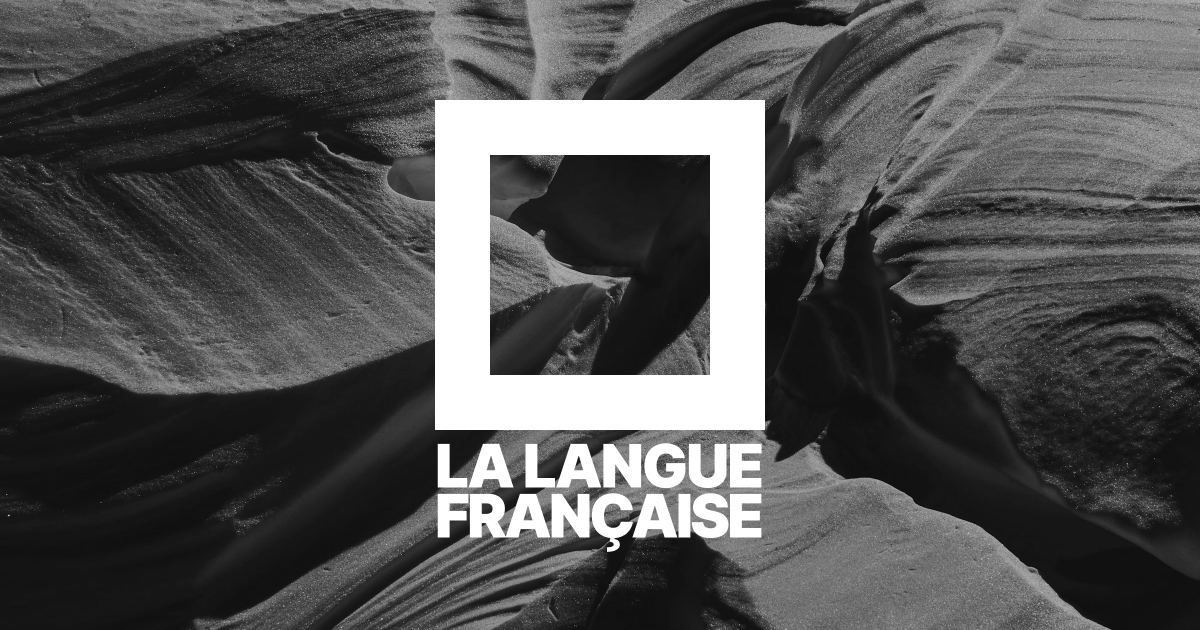
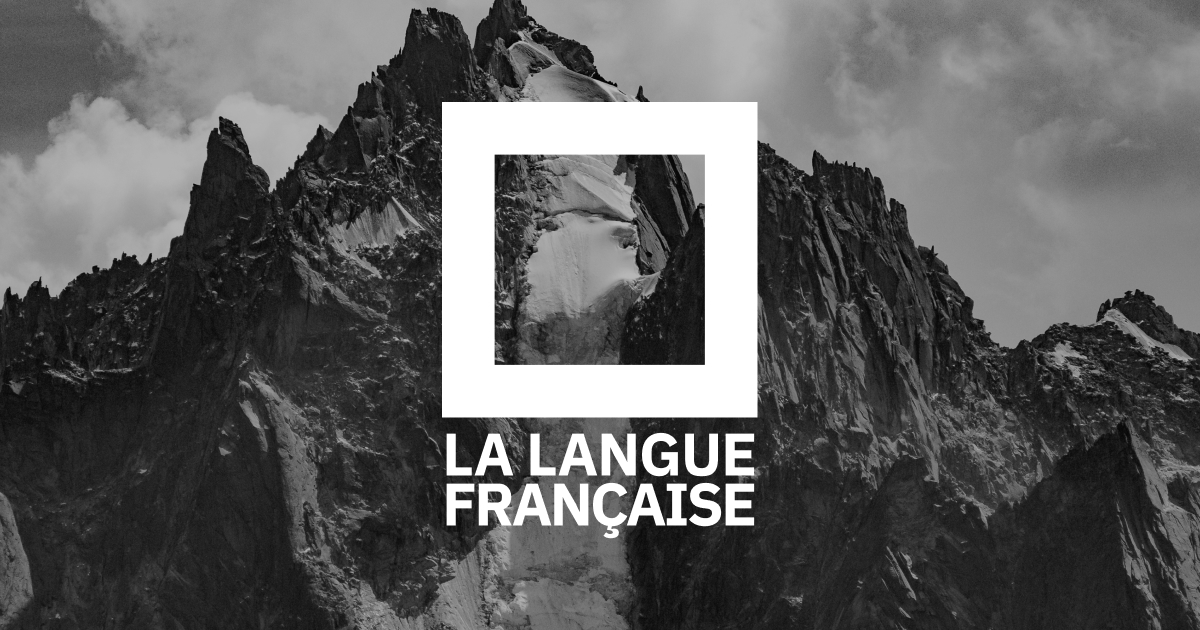
Refine typography and branding
Switch the site to IBM Plex Sans, update the logo artwork and Open Graph image, and adjust heading weights for a lighter visual hierarchy.

diff --git a/src/components/Logo.tsx b/src/components/Logo.tsx
@@ -10,10 +10,9 @@ export default function Logo({
 }) {
   return (
     <svg
-      xmlns="http://www.w3.org/2000/svg"
-      // Cropped to the square mark so the cedilla hangs below like a descender
-      // instead of pushing the logo up when centred.
       viewBox={showLogoOnly ? "0 0 200 200" : "0 0 882 200"}
+
+      xmlns="http://www.w3.org/2000/svg"
       fill="currentColor"
       role="img"
       aria-label="La langue française"
@@ -21,7 +20,7 @@ export default function Logo({
     >
       <path d="M200 200H0V0H200V200ZM33.333 33.333V166.667H166.667V33.333H33.333Z" />
       {showLogoOnly ? null : (
-        <path d="M234.625 94V6.72727H258.318V74.9091H293.602V94H234.625ZM321.65 94H296.082L324.889 6.72727H357.275L386.082 94H360.514L341.423 30.7614H340.741L321.65 94ZM316.877 59.5682H364.946V77.2955H316.877V59.5682ZM409.994 94V6.72727H433.687V74.9091H468.971V94H409.994ZM497.019 94H471.451L500.258 6.72727H532.644L561.451 94H535.883L516.792 30.7614H516.11L497.019 94ZM492.246 59.5682H540.314V77.2955H492.246V59.5682ZM641.168 6.72727V94H621.395L589.861 48.1477H589.349V94H565.656V6.72727H585.77L616.793 52.4091H617.474V6.72727H641.168ZM704.851 35.5341C704.482 34.0284 703.899 32.7074 703.104 31.571C702.309 30.4063 701.314 29.4261 700.121 28.6307C698.956 27.8068 697.593 27.196 696.03 26.7983C694.496 26.3722 692.806 26.1591 690.959 26.1591C686.982 26.1591 683.587 27.1108 680.774 29.0142C677.99 30.9176 675.86 33.6591 674.382 37.2386C672.934 40.8182 672.209 45.1364 672.209 50.1932C672.209 55.3068 672.905 59.6818 674.297 63.3182C675.689 66.9545 677.763 69.7386 680.519 71.6705C683.274 73.6023 686.698 74.5682 690.789 74.5682C694.397 74.5682 697.394 74.0426 699.78 72.9915C702.195 71.9403 703.999 70.4489 705.192 68.517C706.385 66.5852 706.982 64.3125 706.982 61.6989L711.073 62.125H691.13V45.25H729.823V57.3523C729.823 65.3068 728.132 72.1108 724.752 77.7642C721.399 83.3892 716.769 87.7074 710.86 90.7188C704.979 93.7017 698.232 95.1932 690.618 95.1932C682.124 95.1932 674.666 93.3892 668.246 89.7812C661.826 86.1733 656.811 81.0312 653.203 74.3551C649.624 67.679 647.834 59.7386 647.834 50.5341C647.834 43.3182 648.928 36.9261 651.115 31.358C653.331 25.7898 656.399 21.0881 660.32 17.2528C664.24 13.3892 668.772 10.4773 673.914 8.51704C679.056 6.52841 684.567 5.53409 690.448 5.53409C695.618 5.53409 700.419 6.27273 704.851 7.75C709.311 9.19886 713.246 11.2727 716.655 13.9716C720.093 16.642 722.862 19.8097 724.965 23.4744C727.067 27.1392 728.345 31.1591 728.8 35.5341H704.851ZM788.318 6.72727H812.011V62.6364C812.011 69.2841 810.42 75.0369 807.239 79.8949C804.085 84.7244 799.682 88.4602 794.028 91.1023C788.375 93.7159 781.812 95.0227 774.341 95.0227C766.812 95.0227 760.221 93.7159 754.568 91.1023C748.915 88.4602 744.511 84.7244 741.358 79.8949C738.233 75.0369 736.67 69.2841 736.67 62.6364V6.72727H760.364V60.5909C760.364 63.2898 760.96 65.7045 762.153 67.8352C763.346 69.9375 764.994 71.5852 767.096 72.7784C769.227 73.9716 771.642 74.5682 774.341 74.5682C777.068 74.5682 779.483 73.9716 781.585 72.7784C783.687 71.5852 785.335 69.9375 786.528 67.8352C787.721 65.7045 788.318 63.2898 788.318 60.5909V6.72727ZM819.072 94V6.72727H881.97V25.8182H842.765V40.8182H878.731V59.9091H842.765V74.9091H881.799V94H819.072ZM234.625 194V106.727H295.989V125.818H258.318V140.818H292.239V159.909H258.318V194H234.625ZM298.703 194V106.727H336.374C342.851 106.727 348.518 107.906 353.376 110.264C358.234 112.622 362.013 116.017 364.712 120.449C367.411 124.881 368.76 130.193 368.76 136.386C368.76 142.636 367.368 147.906 364.584 152.196C361.828 156.486 357.95 159.724 352.95 161.912C347.979 164.099 342.169 165.193 335.521 165.193H313.021V146.784H330.749C333.533 146.784 335.905 146.443 337.865 145.761C339.854 145.051 341.374 143.929 342.425 142.395C343.504 140.861 344.044 138.858 344.044 136.386C344.044 133.886 343.504 131.855 342.425 130.293C341.374 128.702 339.854 127.537 337.865 126.798C335.905 126.031 333.533 125.648 330.749 125.648H322.396V194H298.703ZM349.839 153.943L371.658 194H345.919L324.612 153.943H349.839ZM395.53 194H369.962L398.768 106.727H431.155L459.962 194H434.393L415.303 130.761H414.621L395.53 194ZM390.757 159.568H438.825V177.295H390.757V159.568ZM537.879 106.727V194H518.106L486.572 148.148H486.06V194H462.367V106.727H482.481L513.504 152.409H514.185V106.727H537.879ZM624.563 139.455H600.529C600.359 137.466 599.904 135.662 599.165 134.043C598.455 132.423 597.461 131.031 596.183 129.866C594.933 128.673 593.413 127.764 591.623 127.139C589.833 126.486 587.802 126.159 585.529 126.159C581.552 126.159 578.185 127.125 575.43 129.057C572.702 130.989 570.629 133.759 569.208 137.366C567.816 140.974 567.12 145.307 567.12 150.364C567.12 155.705 567.83 160.179 569.251 163.787C570.7 167.366 572.788 170.065 575.515 171.884C578.242 173.673 581.523 174.568 585.359 174.568C587.546 174.568 589.506 174.298 591.239 173.759C592.972 173.19 594.478 172.381 595.756 171.33C597.035 170.278 598.072 169.014 598.867 167.537C599.691 166.031 600.245 164.341 600.529 162.466L624.563 162.636C624.279 166.33 623.242 170.094 621.452 173.929C619.663 177.736 617.12 181.259 613.825 184.497C610.558 187.707 606.509 190.293 601.68 192.253C596.85 194.213 591.239 195.193 584.847 195.193C576.836 195.193 569.648 193.474 563.285 190.037C556.95 186.599 551.935 181.543 548.242 174.866C544.577 168.19 542.745 160.023 542.745 150.364C542.745 140.648 544.62 132.466 548.37 125.818C552.12 119.142 557.177 114.099 563.54 110.69C569.904 107.253 577.006 105.534 584.847 105.534C590.359 105.534 595.43 106.287 600.06 107.793C604.691 109.298 608.754 111.5 612.248 114.398C615.742 117.267 618.555 120.804 620.685 125.009C622.816 129.213 624.109 134.028 624.563 139.455ZM580.245 193.318H588.597L587.915 197.239C591.296 197.75 593.924 198.943 595.799 200.818C597.674 202.693 598.626 205.023 598.654 207.807C598.711 212.409 596.452 216.031 591.879 218.673C587.333 221.315 581.069 222.636 573.086 222.636V213.602C577.29 213.602 580.501 213.148 582.717 212.239C584.933 211.358 586.097 210.051 586.211 208.318C586.325 206.727 585.7 205.406 584.336 204.355C583.001 203.332 580.955 202.608 578.2 202.182L580.245 193.318ZM649.288 194H623.719L652.526 106.727H684.913L713.719 194H688.151L669.06 130.761H668.379L649.288 194ZM644.515 159.568H692.583V177.295H644.515V159.568ZM739.818 106.727V194H716.125V106.727H739.818ZM792.092 134C791.865 131.159 790.8 128.943 788.896 127.352C787.021 125.761 784.166 124.966 780.331 124.966C777.888 124.966 775.885 125.264 774.322 125.861C772.788 126.429 771.652 127.21 770.913 128.205C770.175 129.199 769.791 130.335 769.763 131.614C769.706 132.665 769.891 133.616 770.317 134.469C770.771 135.293 771.482 136.045 772.447 136.727C773.413 137.381 774.649 137.977 776.155 138.517C777.661 139.057 779.45 139.54 781.524 139.966L788.683 141.5C793.513 142.523 797.646 143.872 801.084 145.548C804.521 147.224 807.334 149.199 809.521 151.472C811.709 153.716 813.314 156.244 814.337 159.057C815.388 161.869 815.928 164.937 815.956 168.261C815.928 174 814.493 178.858 811.652 182.835C808.811 186.812 804.749 189.838 799.464 191.912C794.209 193.986 787.888 195.023 780.501 195.023C772.916 195.023 766.297 193.901 760.643 191.656C755.018 189.412 750.643 185.96 747.518 181.301C744.422 176.614 742.859 170.619 742.831 163.318H765.331C765.473 165.989 766.141 168.233 767.334 170.051C768.527 171.869 770.203 173.247 772.362 174.185C774.55 175.122 777.149 175.591 780.161 175.591C782.689 175.591 784.805 175.278 786.51 174.653C788.214 174.028 789.507 173.162 790.388 172.054C791.268 170.946 791.723 169.682 791.751 168.261C791.723 166.926 791.283 165.761 790.43 164.767C789.607 163.744 788.243 162.835 786.339 162.04C784.436 161.216 781.865 160.449 778.626 159.739L769.933 157.864C762.206 156.187 756.112 153.389 751.652 149.469C747.22 145.52 745.018 140.136 745.047 133.318C745.018 127.778 746.496 122.935 749.479 118.787C752.49 114.611 756.652 111.358 761.964 109.028C767.305 106.699 773.428 105.534 780.331 105.534C787.376 105.534 793.47 106.713 798.612 109.071C803.754 111.429 807.717 114.753 810.501 119.043C813.314 123.304 814.734 128.29 814.763 134H792.092ZM818.969 194V106.727H881.866V125.818H842.662V140.818H878.628V159.909H842.662V174.909H881.696V194H818.969Z" />
+        <path d="M288.4 95H238.24V11.24H256.48V78.8H288.4V95ZM371.641 95H352.681L346.681 75.08H318.721L312.721 95H294.241L321.841 11.24H344.401L371.641 95ZM342.241 59.6L337.081 42.2L332.881 27.8H332.281L328.201 42.2L323.041 59.6H342.241ZM456.181 95H406.021V11.24H424.261V78.8H456.181V95ZM539.422 95H520.462L514.462 75.08H486.502L480.502 95H462.022L489.622 11.24H512.182L539.422 95ZM510.022 59.6L504.862 42.2L500.662 27.8H500.062L495.982 42.2L490.822 59.6H510.022ZM596.706 95L573.786 55.4L565.746 38.6H565.386V56.12V95H548.226V11.24H568.146L591.066 50.84L599.106 67.64H599.466V50.12V11.24H616.626V95H596.706ZM685.438 95V81.68H684.838C684.278 85.84 682.118 89.36 678.358 92.24C674.678 95.04 669.678 96.44 663.358 96.44C656.958 96.44 651.158 94.8 645.958 91.52C640.758 88.24 636.638 83.44 633.598 77.12C630.558 70.72 629.038 62.84 629.038 53.48C629.038 44.04 630.598 36.08 633.718 29.6C636.918 23.12 641.358 18.2 647.038 14.84C652.798 11.48 659.438 9.8 666.958 9.8C674.398 9.8 680.838 11.44 686.278 14.72C691.798 18 696.118 22.84 699.238 29.24L684.358 37.76C683.078 34.48 681.078 31.72 678.358 29.48C675.638 27.16 671.838 26 666.958 26C663.198 26 659.918 26.76 657.118 28.28C654.318 29.72 652.158 31.96 650.638 35C649.118 37.96 648.358 41.76 648.358 46.4V59.84C648.358 64.48 649.118 68.32 650.638 71.36C652.158 74.32 654.318 76.56 657.118 78.08C659.918 79.52 663.198 80.24 666.958 80.24C669.998 80.24 672.758 79.76 675.238 78.8C677.718 77.84 679.678 76.44 681.118 74.6C682.638 72.76 683.398 70.48 683.398 67.76V63.56H667.798V48.32H700.798V95H685.438ZM715.264 11.24H733.024V62.6C733.024 66.52 733.504 69.8 734.464 72.44C735.504 75 737.144 76.96 739.384 78.32C741.624 79.6 744.544 80.24 748.144 80.24C751.744 80.24 754.624 79.6 756.784 78.32C759.024 76.96 760.664 75 761.704 72.44C762.744 69.8 763.264 66.52 763.264 62.6V11.24H781.024V60.68C781.024 68.92 779.944 75.68 777.784 80.96C775.624 86.24 772.144 90.16 767.344 92.72C762.544 95.2 756.144 96.44 748.144 96.44C740.144 96.44 733.744 95.2 728.944 92.72C724.144 90.16 720.664 86.24 718.504 80.96C716.344 75.68 715.264 68.92 715.264 60.68V11.24ZM853.281 95H796.281V11.24H853.281V27.44H814.521V44.6H847.761V60.68H814.521V78.8H853.281V95ZM256.48 195H238.24V111.24H293.8V127.44H256.48V144.6H288.28V160.68H256.48V195ZM320.675 164.28V195H302.435V111.24H342.155C347.355 111.24 351.835 112.36 355.595 114.6C359.355 116.84 362.275 119.96 364.355 123.96C366.435 127.96 367.475 132.64 367.475 138C367.475 143.6 366.195 148.56 363.635 152.88C361.155 157.12 357.355 160.2 352.235 162.12L368.675 195H348.395L333.755 164.28H320.675ZM320.675 148.92H339.875C341.715 148.92 343.275 148.6 344.555 147.96C345.835 147.32 346.835 146.4 347.555 145.2C348.275 143.92 348.635 142.4 348.635 140.64V135.36C348.635 133.52 348.275 132 347.555 130.8C346.835 129.6 345.835 128.68 344.555 128.04C343.275 127.4 341.715 127.08 339.875 127.08H320.675V148.92ZM447.855 195H428.895L422.895 175.08H394.935L388.935 195H370.455L398.055 111.24H420.615L447.855 195ZM418.455 159.6L413.295 142.2L409.095 127.8H408.495L404.415 142.2L399.255 159.6H418.455ZM501.923 195L479.003 155.4L470.963 138.6H470.603V156.12V195H453.443V111.24H473.363L496.283 150.84L504.323 167.64H504.683V150.12V111.24H521.843V195H501.923ZM568.119 126C562.759 126 558.439 127.76 555.159 131.28C551.959 134.72 550.359 139.76 550.359 146.4V159.84C550.359 166.4 551.959 171.44 555.159 174.96C558.439 178.48 562.759 180.24 568.119 180.24C572.599 180.24 576.159 179.04 578.799 176.64C581.519 174.16 583.519 171.2 584.799 167.76L599.679 176.4C596.559 182.72 592.439 187.64 587.319 191.16C582.279 194.68 576.079 196.44 568.719 196.44L567.639 201.6L568.119 202.08C569.079 201.84 570.039 201.64 570.999 201.48C571.959 201.32 572.919 201.24 573.879 201.24C576.279 201.24 578.319 201.88 579.999 203.16C581.759 204.44 582.639 206.56 582.639 209.52C582.639 212.24 581.879 214.4 580.359 216C578.839 217.6 576.879 218.72 574.479 219.36C572.079 220.08 569.519 220.44 566.799 220.44C562.639 220.44 559.359 219.84 556.959 218.64C554.639 217.52 552.959 216.36 551.919 215.16L557.439 208.44C558.239 209.4 559.279 210.2 560.559 210.84C561.919 211.56 563.519 211.92 565.359 211.92C566.879 211.92 568.119 211.68 569.079 211.2C570.119 210.72 570.639 209.96 570.639 208.92C570.639 208.04 570.079 207.08 568.959 206.04C567.839 205.08 565.399 204.44 561.639 204.12L559.119 203.88L560.799 195.84C554.719 194.88 549.439 192.68 544.959 189.24C540.479 185.8 537.039 181.12 534.639 175.2C532.239 169.28 531.039 162.12 531.039 153.72C531.039 144.28 532.559 136.32 535.599 129.84C538.639 123.28 542.919 118.32 548.439 114.96C554.039 111.52 560.599 109.8 568.119 109.8C575.799 109.8 582.159 111.4 587.199 114.6C592.319 117.8 596.399 122.76 599.439 129.48L583.719 137.64C582.679 134.12 580.919 131.32 578.439 129.24C576.039 127.08 572.599 126 568.119 126ZM676.066 195H657.106L651.106 175.08H623.146L617.146 195H598.666L626.266 111.24H648.826L676.066 195ZM646.666 159.6L641.506 142.2L637.306 127.8H636.706L632.626 142.2L627.466 159.6H646.666ZM718.254 195H678.414V180.48H689.214V125.76H678.414V111.24H718.254V125.76H707.454V180.48H718.254V195ZM754.571 196.44C747.291 196.44 741.051 195.16 735.851 192.6C730.731 190.04 726.371 186.8 722.771 182.88L734.771 170.76C737.571 173.96 740.731 176.36 744.251 177.96C747.851 179.56 751.691 180.36 755.771 180.36C760.251 180.36 763.571 179.44 765.731 177.6C767.891 175.76 768.971 173.32 768.971 170.28C768.971 168.76 768.691 167.4 768.131 166.2C767.651 164.92 766.691 163.88 765.251 163.08C763.891 162.2 761.891 161.6 759.251 161.28L750.971 160.2C745.131 159.4 740.291 157.96 736.451 155.88C732.691 153.72 729.891 150.92 728.051 147.48C726.211 143.96 725.291 139.88 725.291 135.24C725.291 130.2 726.531 125.8 729.011 122.04C731.571 118.2 735.171 115.2 739.811 113.04C744.531 110.88 750.171 109.8 756.731 109.8C763.051 109.8 768.611 110.84 773.411 112.92C778.211 114.92 782.331 117.8 785.771 121.56L773.651 133.8C771.651 131.48 769.211 129.6 766.331 128.16C763.531 126.64 759.971 125.88 755.651 125.88C751.571 125.88 748.531 126.6 746.531 128.04C744.531 129.48 743.531 131.48 743.531 134.04C743.531 135.96 743.851 137.52 744.491 138.72C745.211 139.92 746.291 140.84 747.731 141.48C749.251 142.12 751.171 142.64 753.491 143.04L761.771 144.36C767.531 145.24 772.291 146.72 776.051 148.8C779.811 150.88 782.611 153.6 784.451 156.96C786.291 160.32 787.211 164.4 787.211 169.2C787.211 174.56 785.931 179.28 783.371 183.36C780.891 187.44 777.211 190.64 772.331 192.96C767.451 195.28 761.531 196.44 754.571 196.44ZM853.334 195H796.334V111.24H853.334V127.44H814.574V144.6H847.814V160.68H814.574V178.8H853.334V195Z" />
       )}
     </svg>
   );

diff --git a/src/app/layout.tsx b/src/app/layout.tsx
@@ -1,12 +1,12 @@
 import type { Metadata } from "next";
-import { Inter, IBM_Plex_Mono } from "next/font/google";
+import { IBM_Plex_Mono, IBM_Plex_Sans } from "next/font/google";
 import "./globals.css";
 import Footer from "@/components/Footer";
 import Header from "@/components/Header";
 import PersonalNotes from "@/components/PersonalNotes";
 
-const inter = Inter({
-  variable: "--font-inter",
+const ibmPlexSans = IBM_Plex_Sans({
+  variable: "--font-ibm-plex-sans",
   subsets: ["latin"],
 });
 
@@ -33,7 +33,7 @@ export default function RootLayout({ children }: LayoutProps<"/">) {
   return (
     <html
       lang="fr"
-      className={`${inter.variable} ${ibmPlexMono.variable} antialiased`}
+      className={`${ibmPlexSans.variable} ${ibmPlexMono.variable} antialiased`}
       suppressHydrationWarning
     >
       <head>

diff --git a/src/app/page.tsx b/src/app/page.tsx
@@ -51,7 +51,7 @@ export default async function Home() {
         <p className="px-4 font-medium tracking-wide text-neutral-600 uppercase dark:text-neutral-400">
           Bonjour et bienvenue sur
         </p>
-        <h1 className="px-4 text-5xl leading-none font-extrabold tracking-tighter uppercase sm:text-7xl">
+        <h1 className="px-4 text-5xl leading-none font-bold tracking-tighter uppercase sm:text-7xl">
           La langue française
         </h1>
         <p className="max-w-xl px-4 text-lg text-neutral-700 dark:text-neutral-300">

diff --git a/src/components/content/TensesSlider.tsx b/src/components/content/TensesSlider.tsx
@@ -8,7 +8,7 @@ export default function TensesSlider() {
   return (
     <>
       <div className="prose-p:m-0 prose-headings:m-0 flex flex-col items-center gap-4 bg-neutral-100 p-4 dark:bg-black">
-        <p className="text-center text-xl font-black">Les Temps</p>
+        <p className="text-center text-xl font-bold">Les Temps</p>
         <div className="flex w-full flex-col gap-1">
           <p className="text-center leading-tight font-bold">
             Le moment de l&apos;événement

diff --git a/src/app/globals.css b/src/app/globals.css
@@ -3,7 +3,7 @@
 @custom-variant dark (&:where(.dark, .dark *));
 
 @theme inline {
-  --font-sans: var(--font-inter);
+  --font-sans: var(--font-ibm-plex-sans);
   --font-mono: var(--font-ibm-plex-mono);
 }
 
